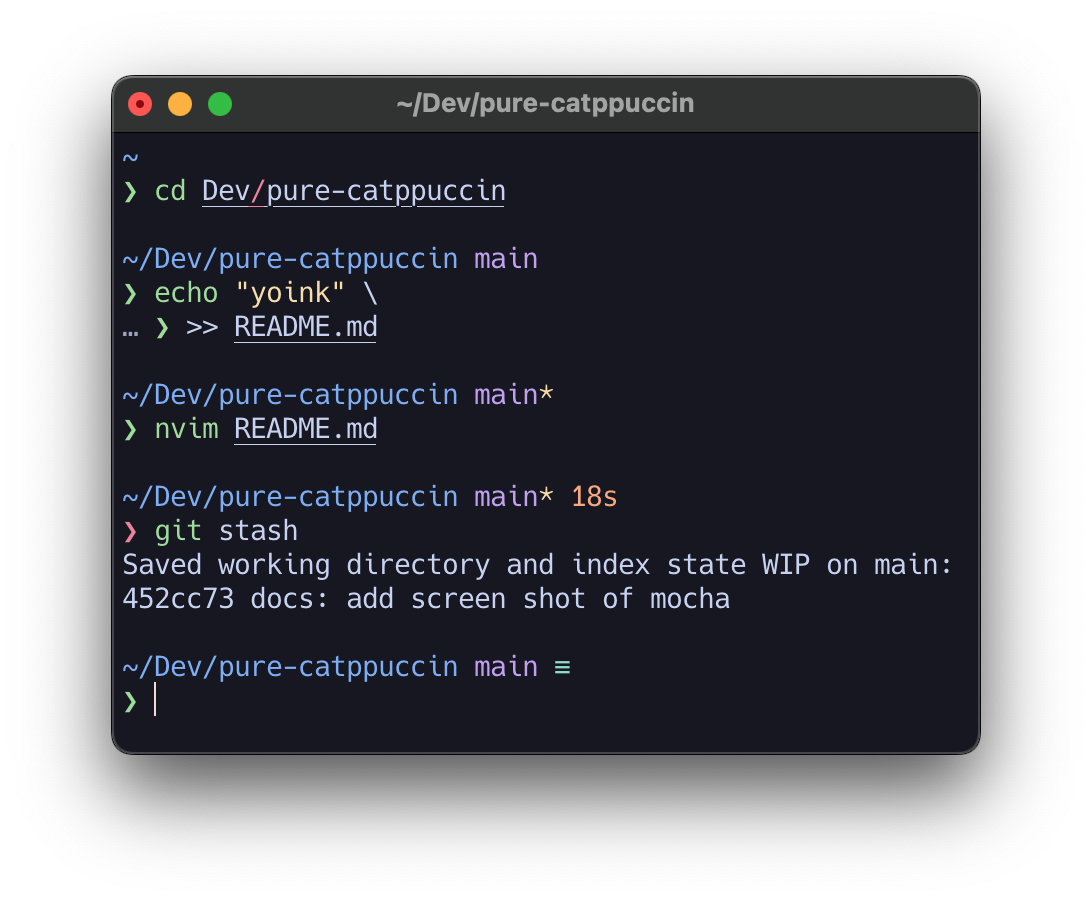
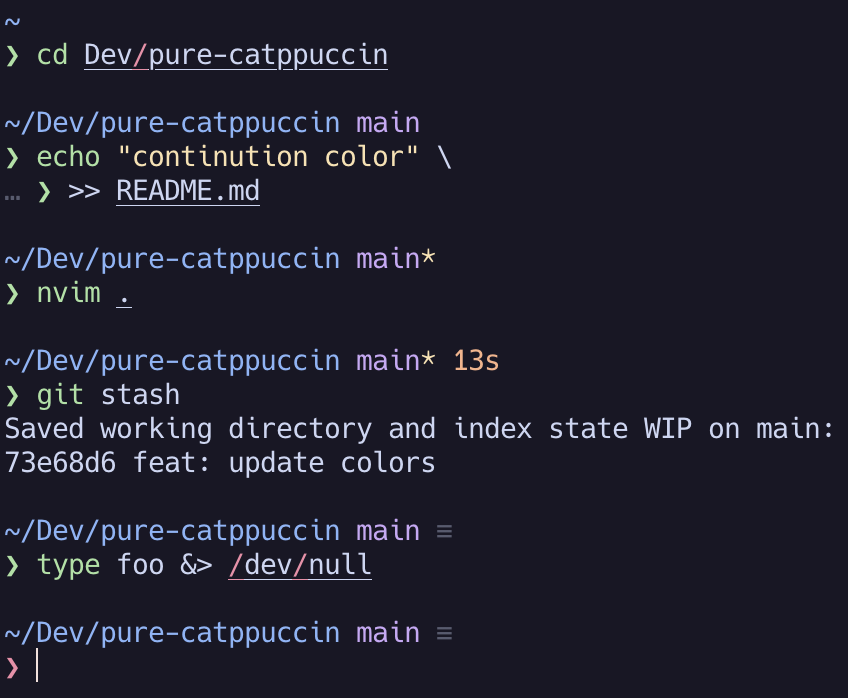
feat: update colors

diff --git a/generate.js b/generate.js
@@ -12,16 +12,16 @@ zstyle :prompt:pure:git:stash show yes
 zstyle :prompt:pure:execution_time color "${palette.peach.hex}"
 zstyle :prompt:pure:path color "${palette.blue.hex}"
 
-zstyle :prompt:pure:prompt:continuation color "${palette.subtext0.hex}"
+zstyle :prompt:pure:prompt:continuation color "${palette.surface2.hex}"
 zstyle :prompt:pure:prompt:error color "${palette.red.hex}"
 zstyle :prompt:pure:prompt:success color "${palette.green.hex}"
 
 zstyle :prompt:pure:git:action color "${palette.rosewater.hex}"
-zstyle :prompt:pure:git:arrow color "${palette.teal.hex}"
+zstyle :prompt:pure:git:arrow color "${palette.sapphire.hex}"
 zstyle :prompt:pure:git:branch color "${palette.mauve.hex}"
 zstyle :prompt:pure:git:branch:cached color "${palette.red.hex}"
 zstyle :prompt:pure:git:dirty color "${palette.yellow.hex}"
-zstyle :prompt:pure:git:stash color "${palette.teal.hex}"
+zstyle :prompt:pure:git:stash color "${palette.surface2.hex}"
 `,
     "utf8",
   );

diff --git a/README.md b/README.md
@@ -5,17 +5,22 @@ My personal preference of colour choices for [Pure](https://github.com/sindresor
 Requires a terminal with support for RGB colours like iTerm2.
 
 <p align="center">
-  <img src="img/mocha.png" style="max-width: 600px; height: auto" alt="Mocha styles">
+  <img src="img/mocha.png" style="max-width: 80%" alt="Mocha styles">
 </p>
 
 ## Installation
 
+### Manual
+
+After setup of Pure prompt, clone this repo and...
+
 ```sh
-zplug p-m-p/pure-catppuccin, use:style/latte.zsh
-# or
-zplug p-m-p/pure-catppuccin, use:style/frappe.zsh
-# or
-zplug p-m-p/pure-catppuccin, use:style/macchiato.zsh
-# or
-zplug p-m-p/pure-catppuccin, use:style/mocha.zsh
+cd pure-catppuccin
+source style/mocha.zsh # or latte.zsh, frappe.zsh, macchiato.zsh
+```
+
+### ZPlug
+
+```sh
+zplug p-m-p/pure-catppuccin, from:github, at:main, use:style/mocha.zsh # or latte.zsh, frappe.zsh, macchiato.zsh
 ```
